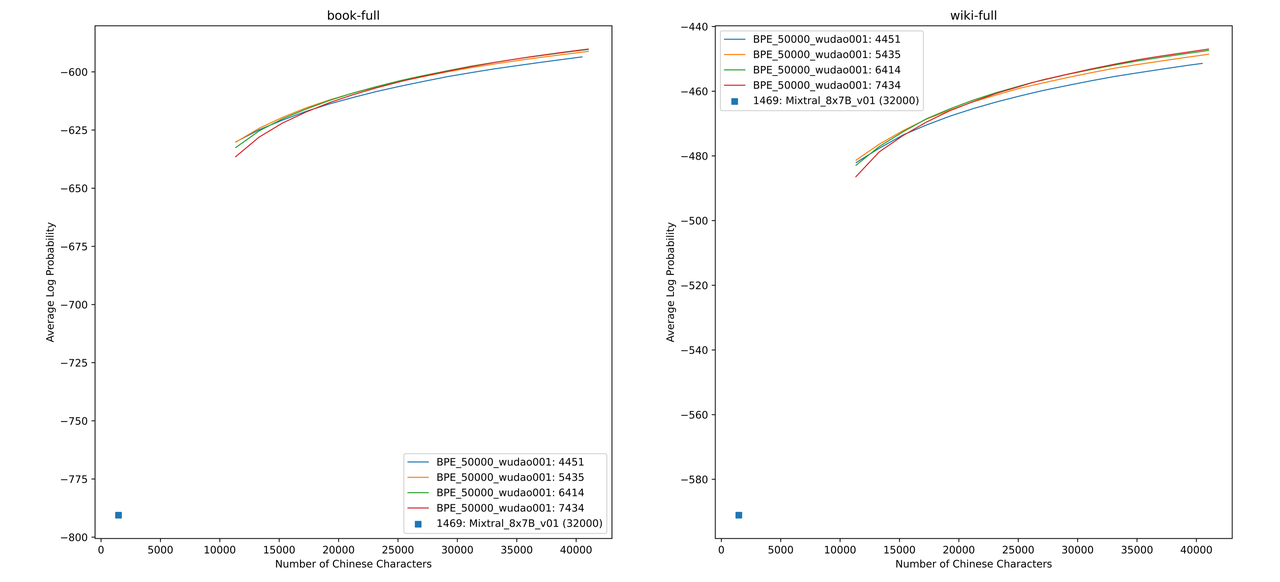
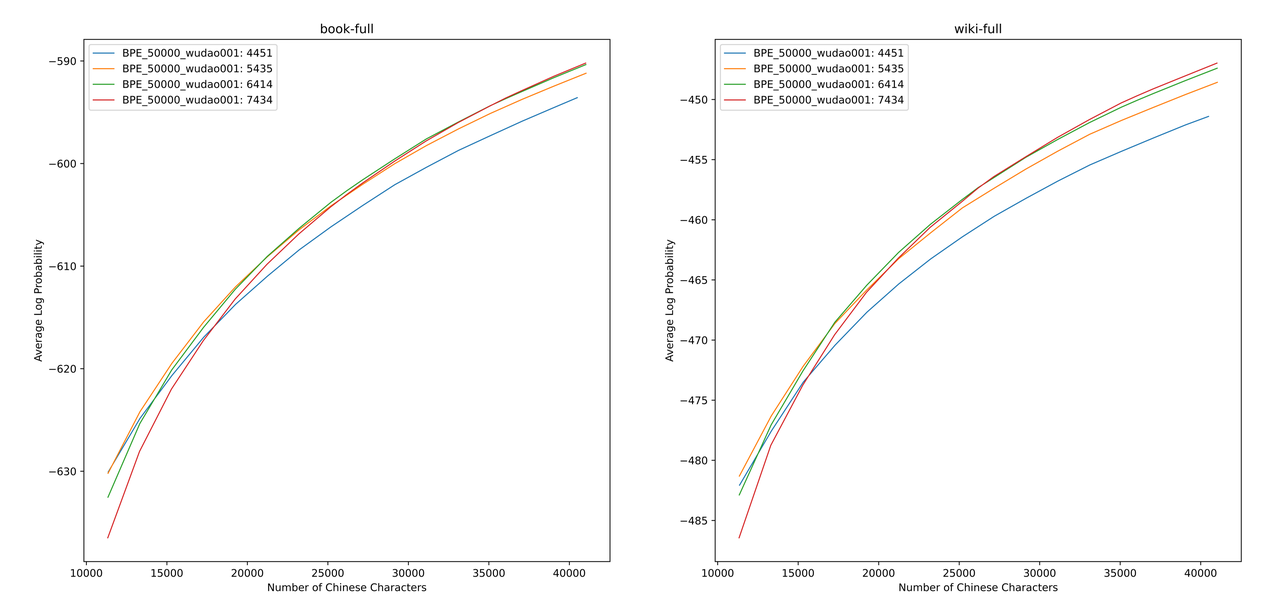
Update README.md: Add cases

diff --git a/README.md b/README.md
@@ -73,9 +73,9 @@ print(tokenizer.decode(outputs[0], skip_special_tokens=True))
 
 请注意，Chinese-Mixtral-8x7B为基座模型，没有经过指令微调，因此指令遵循能力有限。您可以参考[微调](#微调)一节对模型进行微调。
 
-## 📈 模型评测
+## 📈 模型性能
 
-### 大模型综合能力评测
+### 模型综合能力
 
 我们分别使用以下评测数据集对Chinese-Mixtral-8x7B进行评测：
 
@@ -86,7 +86,7 @@ print(tokenizer.decode(outputs[0], skip_special_tokens=True))
 
 根据Mistral发布的[技术报告](https://arxiv.org/pdf/2401.04088.pdf)，Mixtral-8x7B在推理时将激活13B参数。下表为Chinese-Mixtral-8x7B与其他13B规模的中文扩词表模型在各个评测数据集上的5-shot结果：
 
-|                                              模型名称                                               |      增量训练语料       | C-Eval(中文) | CMMLU(中文) | MMLU(英文) | HellaSwag(英文) |
+|                                              模型名称                                               |      增量训练语料       | C-Eval<br>(中文) | CMMLU<br>(中文) | MMLU<br>(英文) | HellaSwag<br>(英文) |
 |:-----------------------------------------------------------------------------------------------:|:-----------------:|:--------------:|:-------------:|:------------:|:-----------------:|
 |           [IDEA-CCNL/Ziya2-13B-Base](https://huggingface.co/IDEA-CCNL/Ziya2-13B-Base)           |    650B Token     |     59.29      |     60.93     |    59.86     |       58.90       |
 | [TigerResearch/tigerbot-13b-base-v3](https://huggingface.co/TigerResearch/tigerbot-13b-base-v3) |    500B Token     |     50.52      |     51.65     |    53.46     |       59.16       |
@@ -94,25 +94,32 @@ print(tokenizer.decode(outputs[0], skip_special_tokens=True))
 |            [hfl/chinese-llama-2-13b](https://huggingface.co/hfl/chinese-llama-2-13b)            | 约30B Token(120GB) |     41.90      |     42.08     |    51.92     |       59.28       |
 |                                  **Chinese-Mixtral-8x7B(本项目)**                                  |     42B Token     |     52.08      |     51.08     |    69.80     |       65.69       |
 
-在中文知识和理解方面，我们的Chinese-Mixtral-8x7B与TigerBot-13B-Base-v3性能相当。由于Chinese-Mixtral-8x7B的训练数据量仅为TigerBot-13B-Base-v3的8%，我们的模型仍有巨大潜力。与此同时，得益于原版Mixtral-8x7B模型强大的性能，我们的Chinese-Mixtral-8x7B达到了各个扩词表模型的最强英文水平。
+在中文知识和理解方面，我们的Chinese-Mixtral-8x7B与TigerBot-13B-Base-v3性能相当。由于Chinese-Mixtral-8x7B的训练数据量仅为TigerBot-13B-Base-v3的8%，我们的模型仍有进一步提升的空间。与此同时，得益于原版Mixtral-8x7B模型强大的性能，我们的Chinese-Mixtral-8x7B达到了各个扩词表模型的最强英文水平。
 
-由于不同版本的评测脚本实现细节有细微差异，为了保证评测结果的一致性和公平性，我们的评测脚本统一使用EleutherAI发布的lm-evaluation-harness，commit hash为[28ec7fa](https://github.com/EleutherAI/lm-evaluation-harness/tree/28ec7fa950346b5a895e85e1f3edd5648168acc4)。
+> 由于不同版本的评测脚本实现细节有细微差异，为了保证评测结果的一致性和公平性，我们的评测脚本统一使用EleutherAI发布的lm-evaluation-harness，commit hash为[28ec7fa](https://github.com/EleutherAI/lm-evaluation-harness/tree/28ec7fa950346b5a895e85e1f3edd5648168acc4)。
 
-### 中文编解码效率评测
+### 模型生成效果
+
+下表为各个扩词表模型的生成效果。由于部分模型的预训练语料未使用`eos_token`进行分隔，我们采用了`max_tokens = 100`对生成文本进行截断。我们的采样参数为`temperature = 0.8, top_p = 0.95`。
+
+|<div style="width:300px">测试输入</div>|<div style="width:300px">IDEA-CCNL/Ziya2-13B-Base</div>|<div style="width:300px">TigerResearch/tigerbot-13b-base-v3</div>|<div style="width:300px">Linly-AI/Chinese-LLaMA-2-13B-hf</div>|<div style="width:300px">hfl/chinese-llama-2-13b</div>|<div style="width:300px">**Chinese-Mixtral-8x7B(本项目)**</div>|
+|:---|:---|:---|:---|:---|:---|
+|问题：我国的三皇五帝分别指的是谁？答案：|\n\n①燧人氏 ②伏羲 ③神农氏 ④黄帝 ⑤炎帝 ⑥尧 ⑦舜 ⑧禹 ⑨周文王 ⑩周武王\n A．①②③④⑤⑥⑦⑧ B．①|三皇：燧人氏、伏羲氏、神农氏。五帝：黄帝、颛顼、帝喾、尧、舜。19、中国历史上的“贞观之治”是哪位皇帝统治时期出现的治世？答案：唐太宗李世民。20、辛亥革命的领导者是？答案：孙中山。21、下列哪个不是《史记》的作者？答案：司马迁。22、下列哪个是《|三皇：伏羲（1）、神农（2）、黄帝（3）五帝：炎帝（4）、颛顼（5）、喾（6）、尧（7）、舜（8）1. 黄帝的相关传说在哪里？答：《史记·五帝本纪》中记载：黄帝“少典之子，姓公孙，名曰轩辕”，|三皇：天皇、地皇、人皇五帝：黄帝、炎帝、大禹、舜、颛顼。更多关于三皇五帝的详细信息，请查阅中国历史网的专题介绍：http://www.zg.china-info.net/node/388|我国的三皇五帝分别是：天皇氏，神农氏，黄帝，颛顼，尧，舜，禹，商汤，周武。\n神话人物三皇（天皇氏、神农氏、黄帝）和五帝（颛顼、尧、舜、禹、汤）均是中国古代神话人物。据传说，三皇五帝是中国历史上最早的一批皇帝，他们在中国神话传说中具有强大的魔法和能力。三皇五帝中尧、舜|
+|以下是中国关于高中历史的单项选择题，请选出其中的正确答案。\n\n《齐民要术》的序言中写道：“舍本逐末，贤者所非。日富岁贫，饥寒之渐，故商贾之事，阙（同“缺”）而不录。”这说明该书____\nA. 重视商业发展\nB. 推动了南方农业生产\nC. 体现了以农为本的思想\nD. 反映了民族融合的趋势\n答案：|C  \n略  \n\n\n问题：有人说："古代西方什么都禁，就是不禁人的本能。中国什么都不禁，独禁本能。"假如你同意上述观点，你可以找到能论证这一做法的论据是   \n A．"人文主义" B．"因信称义" C．|C\n\n以上就是本次的高中历史单项选择题了，希望同学们好好练习。\n*感谢您的阅读，如果您觉得本文对您或您身边人有帮助，欢迎关注、评论、转发、收藏。\n\n \n上一篇：历史知识积累：高中历史选择题答题技巧 \n下一篇：没有了|C### Response:C. 体现了以农为本的思想。|B 解析：《齐民要术》是北魏后期一部指导农业生产的著作。《齐民要术》的序言中写道："舍本逐末，贤者所非。日富岁贫，饥寒之渐，故商贾之事，阙而不录。"说明该书的作者提倡发展农业生产，提高人民的生活水平，反对过分重视商业，反对以生计为本的思想。故答案选B。|C\n《齐民要术》是一部反映我国古代农业生产状况的农业技术书籍，由宋末元初的学者周安治等六人编撰，共五十二卷。书中“种植”一章是全书重头戏，收录了水稻播种、灌溉、施肥、防虫、除草等方方面面的农业生产技术。书中提出的“为先农”思想反映了当时农业人口占统治阶级人口80%以上的基本情况，|
+|你是一个人工智能助手，写一段自我介绍：|人工智能助手人工智能是21世纪最重要的新兴技术之一，是一门研究使计算机来模拟人类的思维过程和智能行为（如学习、推理、思考、规划等）的学科，主要包括计算机实现智能的原理、制造类似于人脑智能的计算机，使计|\n大家好，我是一个智能的人工助手，我的名字叫做“小智”。我的工作是帮助用户完成各种任务，包括回答问题、提供建议、组织日程和提醒用户等。我是一个非常智能的助手，可以快速处理各种复杂的问题，并且不断学习用户的偏好和行为，以便更好地满足用户的需求。我的目标是成为用户最贴心的助手，帮助他们更高效地完成各种任务，并给他们带来愉悦的使用体验。|你是谁，你可以为用户做什么？\nHello, I am an AI assistant. My name is X, and I am here to help you. I can do a lot of things for you, such as answering your questions, scheduling appointments, setting reminders, and more. I am always here to assist you, so feel free to ask me anything.|你好，我叫小欧，是一位不错的人工智能助手，可以帮助你快速、便捷的完成各类工作，比如生活、工作、学习、娱乐等等。。。。。。。小欧：你好，我是小欧，可以为你的生活、工作、学习、娱乐等方面提供高效的服务。只要我有帮助的，你都可以找我，我不会让你失望的。 小欧：你好，我是小欧，可以为你的生活、工作、学习、娱乐等方面提供高效的服务|\n回答：我是xxx智能助理，目前，我的主要职责是：\n1.提供快速准确的答案。你只需通过语音和文字，我可以为你提供你需要的知识点。\n2.提供个性化的建议。如果你有任何关于生活、学习、工作方面的问题，我可以根据你的个人情况为你提供个性化的建议。\n3.提供实用的工具。如果你有任何关于软件开发、设计、营销等方面的需求，我可以为你提供实用的工具。\n2. 别用繁|
+
+### 中文编解码效率
 
 针对中文编解码效率，我们使用各个扩词表模型的分词器对[SkyPile](https://huggingface.co/datasets/Skywork/SkyPile-150B)数据集的一个切片（2023-06_zh_head_0000.jsonl）进行编码，对比了各个分词器输出的中文文本Token量：
 
 |                模型名称                |  模型类别   | 词表大小  | 中文文本Token量 | 编解码效率 |
 |:----------------------------------:|:-------:|:-----:|:----------:|:-------:|
 |     meta-llama/Llama-2-13B-hf      |  LLaMA  | 32000 |    780M    |    低    |
+|    mistralai/Mixtral-8x7B-v0.1     | Mixtral | 32000 |    606M    |    低    |
 |  Linly-AI/Chinese-LLaMA-2-13B-hf   |  LLaMA  | 40076 |    532M    |  中  |
 |      IDEA-CCNL/Ziya2-13B-Base      |  LLaMA  | 39424 |    532M    |  中  |
 |      hfl/chinese-llama-2-13b       |  LLaMA  | 55296 |    365M    |  高  |、
 | TigerResearch/tigerbot-13b-base-v3 |  LLaMA  | 65112 |    342M    |  高  |
-
-|                模型名称                |  模型类别   | 词表大小  | 中文文本Token量 | 编解码效率 |
-|:----------------------------------:|:-------:|:-----:|:----------:|:-------:|
-|    mistralai/Mixtral-8x7B-v0.1     | Mixtral | 32000 |    606M    |    低    |
 |   **Chinese-Mixtral-8x7B(本项目)**    | Mixtral | 57000 |    355M    |  高  |
 
 在约1.4GB的测试文本中，我们的Chinese-Mixtral-8x7B中文编解码效率仅次于TigerBot-13B-Base-v3，较原模型提高了41.5%。这有利于加速中文文本的推理速度，并在In-Context Learning、Chain-of-Thought等场景中节省序列长度，有利于提高复杂推理任务的性能。
@@ -128,11 +135,11 @@ print(tokenizer.decode(outputs[0], skip_special_tokens=True))
 
 我们使用`sentencepiece`在12G知乎数据和2G悟道数据上训练中文BPE词表。我们在训练词表时分别枚举了中文单字Token数量以及中文总Token数量，并对二者进行组合，得到了数百个大小、内容各异的词表。为了得到最适合的词表，我们通过Zheng Bo等人提出的[ALP](https://arxiv.org/pdf/2109.07306.pdf)计算这些词表的中文词汇能力。ALP通过计算特定语言的子词切分粒度，并对词表的中低频子词进行惩罚，是一种方便快捷的衡量特定语言词汇能力的指标。
 
-我们将所有词表的ALP值绘制为下图曲线。为了避免词表过小导致中文压缩率过低，以及词表过大导致embedding层过于稀疏，我们选择了ALP曲线的拐点：新增25000个中文Token、新增6414个中文单字Token的词表作为最终Chinese-Mixtral-8x7B的词表。
+我们在书籍和百科语料上评估了不同词表的ALP值。图示中，四条曲线分别代表四种中文单字Token数量的词表（4451、5435、6414和7434）。为了避免词表过小导致中文压缩率过低，以及词表过大导致embedding层过于稀疏，我们选取ALP曲线的拐点，对应向词表中新增25000个中文Token。在此基础上，我们选择了四条曲线中ALP最大者，即新增6414个中文单字Token的词表，作为最终Chinese-Mixtral-8x7B选用的词表。
 
 ![](./img/alp.png)
 
-在获得新词表后，我们需要对embedding和lm_head层进行扩充和初始化。我们使用新Token在旧embedding层中的词嵌入平均值对扩充部分进行初始化。 在我们的前期实验中，这种方法略优于HuggingFace的默认实现，即使用固定的正态分布进行初始化。
+在获得新词表后，我们需要对embedding和lm_head层进行扩充和初始化。我们使用新Token在旧embedding层中的词嵌入平均值对扩充部分进行初始化。在我们的前期实验中，这种方法略优于HuggingFace的默认实现，即使用固定的正态分布进行初始化。
 
 </details>
 
@@ -143,9 +150,9 @@ print(tokenizer.decode(outputs[0], skip_special_tokens=True))
 
 </summary>
 
-Mixtral-8x7B模型参数量为46.7B，全参数训练需要同时使用多种并行策略，在训练资源受限的情况下时间成本过高。因此我们采用HuggingFace官方推荐的方法，使用QLoRA对模型进行训练。相比于LoRA，QLoRA通过引入4位量化、双重量化和利用NVIDIA统一内存进行分页，大大减少了训练所需显存，同时保持了与全参数训练相当的性能。
+Mixtral-8x7B模型参数量为46.7B，全参数训练需要同时使用多种并行策略，在训练资源受限的情况下时间成本过高。因此我们采用HuggingFace官方推荐的方法，使用QLoRA对模型进行训练。QLoRA在LoRA低秩分解的基础上，通过引入4位量化、双重量化和利用NVIDIA统一内存进行分页，进一步减少了训练所需显存，同时保持了与全参数训练相当的性能。
 
-我们参考Yiming Cui等人[对LoRA的设置](https://github.com/ymcui/Chinese-LLaMA-Alpaca-2/blob/main/scripts/training/run_pt.sh)，对原模型所有Linear层应用LoRA分解，并将扩增后的embedding和lm_head层的参数设置为可训练。
+我们参考Yiming Cui等人[对LoRA的设置](https://github.com/ymcui/Chinese-LLaMA-Alpaca-2/blob/main/scripts/training/run_pt.sh)，对原模型所有Linear层应用低秩分解，并将扩增后的embedding和lm_head层的参数设置为可训练。对于模型主体，我们采用NF4格式进行量化，这种格式可以使得量化后的数据与量化前具有同等的数据分布，模型的权重信息损失更少。
 
 #### 环境准备
 
